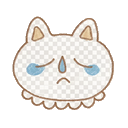
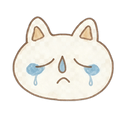
心情猫咪扩到12款：新增生气/疑惑/装酷/兴奋/生病/惊讶
- 新增 6 张 mood-*.png（ImageGen 512x512 深底），规范化缩至 128 + 去背景；
  angry/confused 深灰纹理残留做边缘 flood-fill 强清理（透明 46/45% -> 72/73%）
- mood-sad 被外部进程覆盖为 1024，按规矩缩 128 保留新美术（禁 git checkout）
- NOTE_MOODS 6 -> 12，心情面板 4 行网格自动换行，选择/持久化逻辑零改动

diff --git a/index.html b/index.html
@@ -3642,12 +3642,18 @@ function noteRenderContent(x){
 }
 
 const NOTE_MOODS = [
-  {key:'happy', name:'\u5f00\u5fc3', src:'assets/stickers/mood-happy.png'},
-  {key:'calm',  name:'\u5e73\u9759', src:'assets/stickers/mood-calm.png'},
-  {key:'sleepy',name:'\u56f0',    src:'assets/stickers/mood-sleepy.png'},
-  {key:'love',  name:'\u559c\u6b22', src:'assets/stickers/mood-love.png'},
-  {key:'sad',   name:'\u96be\u8fc7', src:'assets/stickers/mood-sad.png'},
-  {key:'meh',   name:'\u4e00\u822c', src:'assets/stickers/mood-meh.png'},
+  {key:'happy',     name:'\u5f00\u5fc3', src:'assets/stickers/mood-happy.png'},
+  {key:'calm',      name:'\u5e73\u9759', src:'assets/stickers/mood-calm.png'},
+  {key:'excited',   name:'\u5174\u594b', src:'assets/stickers/mood-excited.png'},
+  {key:'love',      name:'\u559c\u6b22', src:'assets/stickers/mood-love.png'},
+  {key:'cool',      name:'\u9177\u9177', src:'assets/stickers/mood-cool.png'},
+  {key:'sleepy',    name:'\u56f0',    src:'assets/stickers/mood-sleepy.png'},
+  {key:'angry',     name:'\u751f\u6c14', src:'assets/stickers/mood-angry.png'},
+  {key:'sad',       name:'\u96be\u8fc7', src:'assets/stickers/mood-sad.png'},
+  {key:'sick',      name:'\u751f\u75c5', src:'assets/stickers/mood-sick.png'},
+  {key:'confused',  name:'\u7591\u60d1', src:'assets/stickers/mood-confused.png'},
+  {key:'surprised', name:'\u60ca\u8bb6', src:'assets/stickers/mood-surprised.png'},
+  {key:'meh',       name:'\u4e00\u822c', src:'assets/stickers/mood-meh.png'},
 ];
 let _noteSelDate = '';
 /* 日历当前查看的年月（null = 当月）；切换月份只改视图，不动任何数据 */
